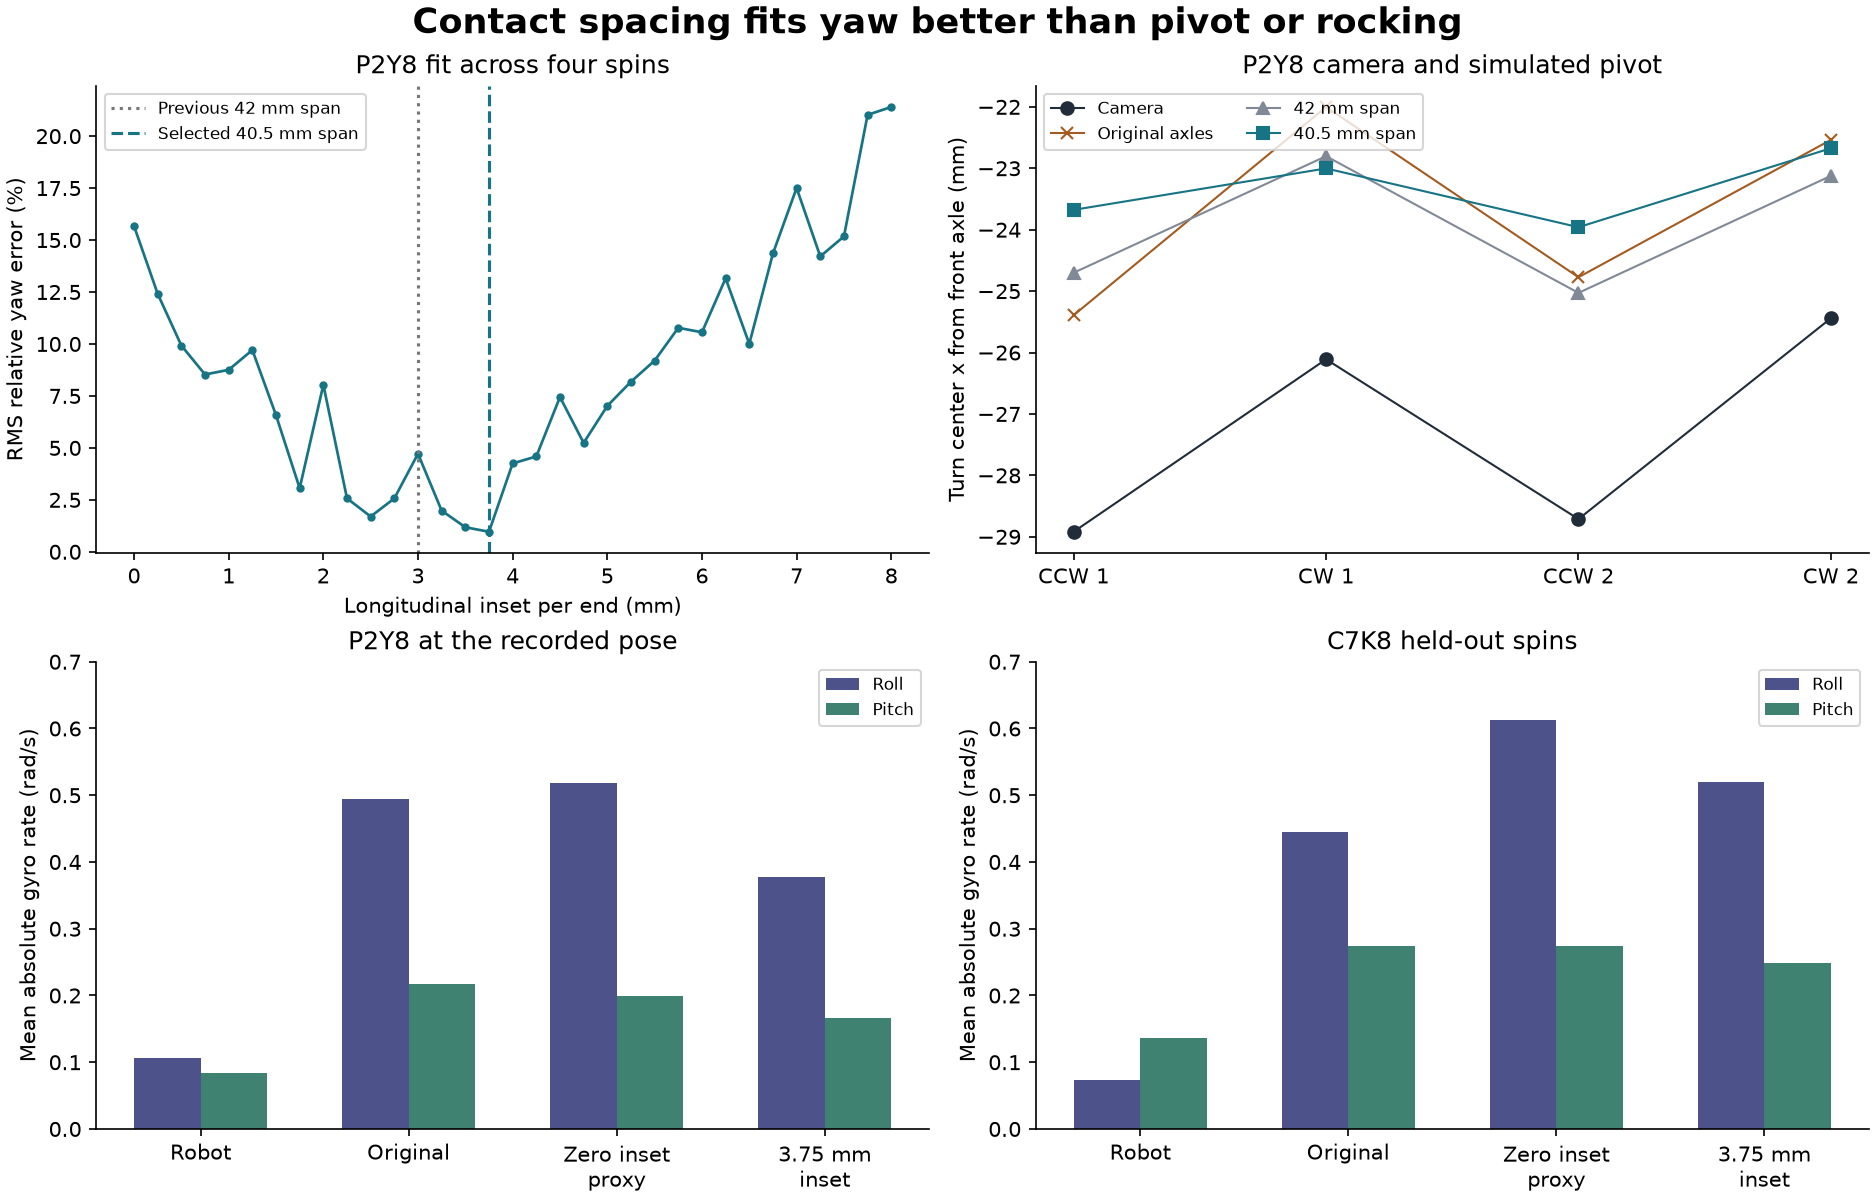
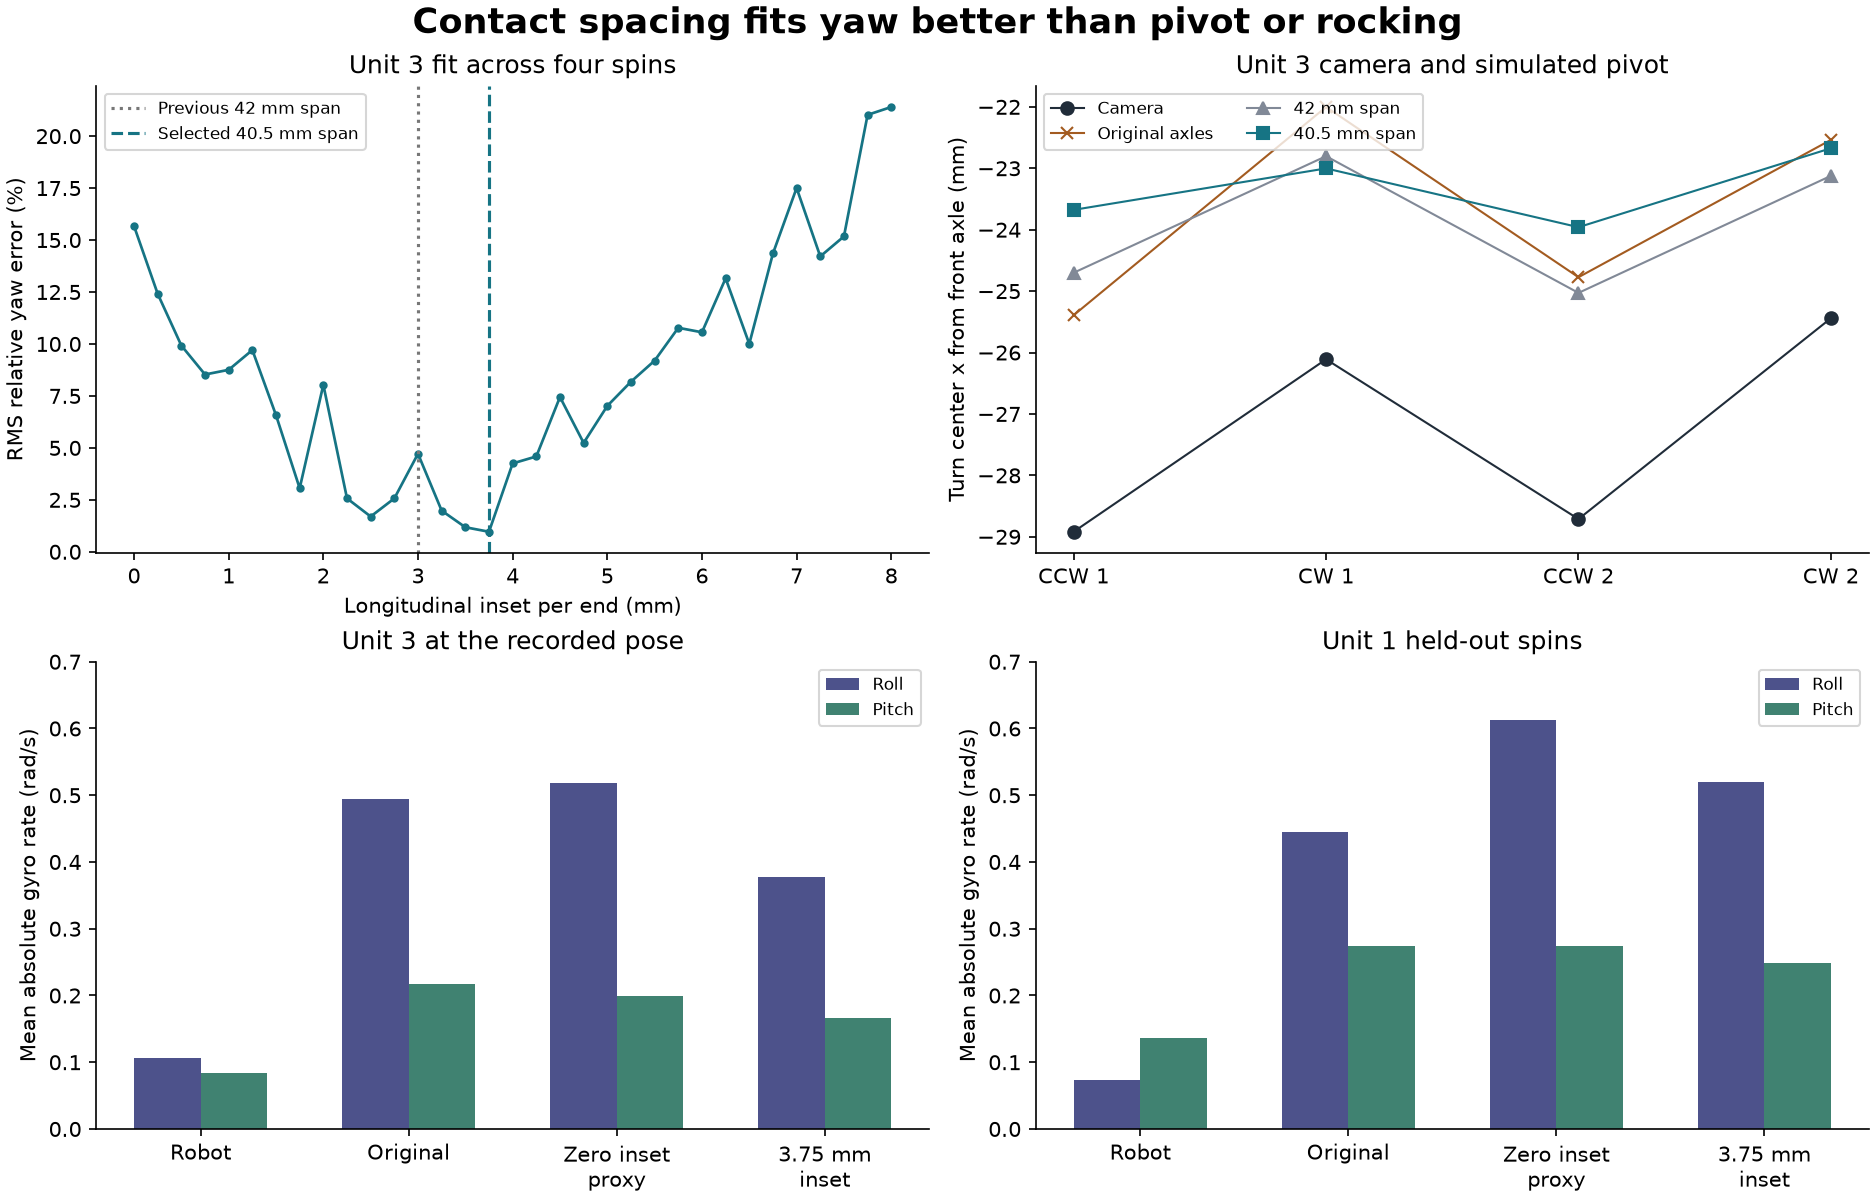
Regenerate recorded-pose-inset figures with public unit labels
The four figures still carried the robot nicknames in their titles; the
text anonymisation could not reach text inside images. Regenerated from
plot.py and peer-check/plot_peer.py with label-only edits.

Control: both producers run unmodified at the parent of the anonymisation
commit reproduced all four committed PNGs byte-identically (md5 match,
0 differing pixels). After the edit, differing pixels are confined to the
title strips only: fit-and-residuals 15251 px in 4 title boxes (rows 54-78
and 630-654); peer-comparison 17353 px in 4 title boxes (rows 51-71 and
586-611); unit1-spins 10718 px and unit3-spins 10260 px, suptitle only
(rows 6-41). No data file is written by either producer.

plot.py also wrote "unit 3-spins.png" since the anonymisation; the output
name now drops the space so it matches the committed unit1/unit3 files.
Titles starting with the unit label are capitalised ("Unit 3 ...").

diff --git a/evidence/recorded-pose-inset/plot.py b/evidence/recorded-pose-inset/plot.py
@@ -43,7 +43,7 @@ def draw(dataset, traces, metrics, sources, fields, series_key, interval):
     axes[0,0].legend(loc="best", fontsize=8)
     fig.suptitle(f"{dataset}   |   Gyro through each spin", fontsize=17, weight="bold")
     fig.supxlabel("Shading marks the steady interval used for scoring. Dots are recorded samples.", fontsize=10)
-    fig.savefig(HERE / (dataset.lower()+"-spins.png"), dpi=150)
+    fig.savefig(HERE / (dataset.lower().replace(" ", "")+"-spins.png"), dpi=150)
     plt.close(fig)
 
 
@@ -55,7 +55,7 @@ def compare_fit(p2, c7):
             color=COLORS[2], marker=".", lw=1.3)
     ax.axvline(3, ls=":", color="#777", label="Previous 42 mm span")
     ax.axvline(3.75, ls="--", color=COLORS[2], label="Selected 40.5 mm span")
-    ax.set(xlabel="Longitudinal inset per end (mm)", ylabel="RMS relative yaw error (%)", title="unit 3 fit across four spins")
+    ax.set(xlabel="Longitudinal inset per end (mm)", ylabel="RMS relative yaw error (%)", title="Unit 3 fit across four spins")
     ax.legend(fontsize=8)
     order = list(dict.fromkeys(r["spin"] for r in p2))
     ax = axes[0,1]
@@ -65,11 +65,11 @@ def compare_fit(p2, c7):
         ys=[float(next(r for r in p2 if r["spin"]==s and r["series"]==key)["center_mm"]) for s in order]
         ax.plot(range(4),ys, marker=marker, lw=1, color=color,label=label)
     ax.set_xticks(range(4),[s.replace("_"," ").upper() for s in order])
-    ax.set(ylabel="Turn center x from front axle (mm)", title="unit 3 camera and simulated pivot")
+    ax.set(ylabel="Turn center x from front axle (mm)", title="Unit 3 camera and simulated pivot")
     ax.legend(fontsize=8,ncol=2)
     for ax, rows, ids, key, roll, pitch, title in [
-        (axes[1,0],p2,["recorded","stock","proxy_0","proxy_3.75"],"series","roll","pitch","unit 3 at the recorded pose"),
-        (axes[1,1],c7,["unit 1","original","proxy_zero","frozen"],"source","mean_abs_roll_rad_s","mean_abs_pitch_rad_s","unit 1 held-out spins")]:
+        (axes[1,0],p2,["recorded","stock","proxy_0","proxy_3.75"],"series","roll","pitch","Unit 3 at the recorded pose"),
+        (axes[1,1],c7,["unit 1","original","proxy_zero","frozen"],"source","mean_abs_roll_rad_s","mean_abs_pitch_rad_s","Unit 1 held-out spins")]:
         for i,(field,color) in enumerate([(roll,"#4d528b"),(pitch,"#408271")]):
             vals = [np.mean([float(r[field]) for r in rows if r[key]==s]) for s in ids]
             ax.bar(np.arange(4)+(i-.5)*.32, vals, .32, color=color,label=["Roll","Pitch"][i])
@@ -84,10 +84,10 @@ def compare_fit(p2, c7):
 
 if __name__ == "__main__":
     p2, c7 = read("metrics.csv"), read("c7_scores.csv")
-    draw("unit 3", read("traces.csv"), p2, ["recorded","stock","proxy_3.75"], ["yaw","roll","pitch"], "series",lambda s,m:(.7,1.4))
+    draw("Unit 3", read("traces.csv"), p2, ["recorded","stock","proxy_3.75"], ["yaw","roll","pitch"], "series",lambda s,m:(.7,1.4))
     def c7_window(spin, metrics):
         row=next(r for r in metrics if r["spin"]==spin)
         return float(row["window_start_s"]),float(row["window_end_s"])
-    draw("unit 1", read("c7_traces.csv"), c7, ["unit 1","original","frozen"],
+    draw("Unit 1", read("c7_traces.csv"), c7, ["unit 1","original","frozen"],
          ["yaw_rad_s","roll_rad_s","pitch_rad_s"], "source",c7_window)
     compare_fit(p2,c7)

diff --git a/evidence/recorded-pose-inset/peer-check/plot_peer.py b/evidence/recorded-pose-inset/peer-check/plot_peer.py
@@ -18,7 +18,7 @@ for index,(geom,desc) in enumerate([("roller","Fixed axles"),("shifted","Shifted
         on=(geom=='shifted')!=swap
         ax.plot([float(r['inset_mm']) for r in rows],[float(r['rms_yaw_error_pct']) for r in rows],
                 marker='o',color='#166a73' if on else '#ae602c',label='Multi-contact '+('on' if on else 'off'))
-    ax.set(xlabel='Inset per end (mm)',ylabel='Steady yaw RMS error (%)',title=f'unit 3  ·  {desc}',xticks=[3.,3.75],ylim=(0,5.3))
+    ax.set(xlabel='Inset per end (mm)',ylabel='Steady yaw RMS error (%)',title=f'Unit 3  ·  {desc}',xticks=[3.,3.75],ylim=(0,5.3))
     ax.legend()
 data=read('sampling_scores.csv')
 for ax,unit in zip(axes[1],['unit 3','unit 1']):
@@ -29,7 +29,7 @@ for ax,unit in zip(axes[1],['unit 3','unit 1']):
             vals.append(np.mean([float(r[axis]) for r in rows]))
         ax.bar(np.arange(4)+(i-.5)*.32,vals,.32,color=color,label=axis.capitalize())
     ax.set_xticks(range(4),['Robot','Raw model','1 pole','2 poles'])
-    ax.set(ylabel='Mean absolute rate (rad/s)',title=f'{unit}  ·  Sensor bandwidth sensitivity',ylim=(0,.64))
+    ax.set(ylabel='Mean absolute rate (rad/s)',title=f'{unit.capitalize()}  ·  Sensor bandwidth sensitivity',ylim=(0,.64))
     ax.legend()
 fig.suptitle('Collision settings change the yaw fit. Gyro filtering changes the rocking comparison.',fontsize=15)
 fig.savefig(base/'peer-comparison.png',dpi=155)
